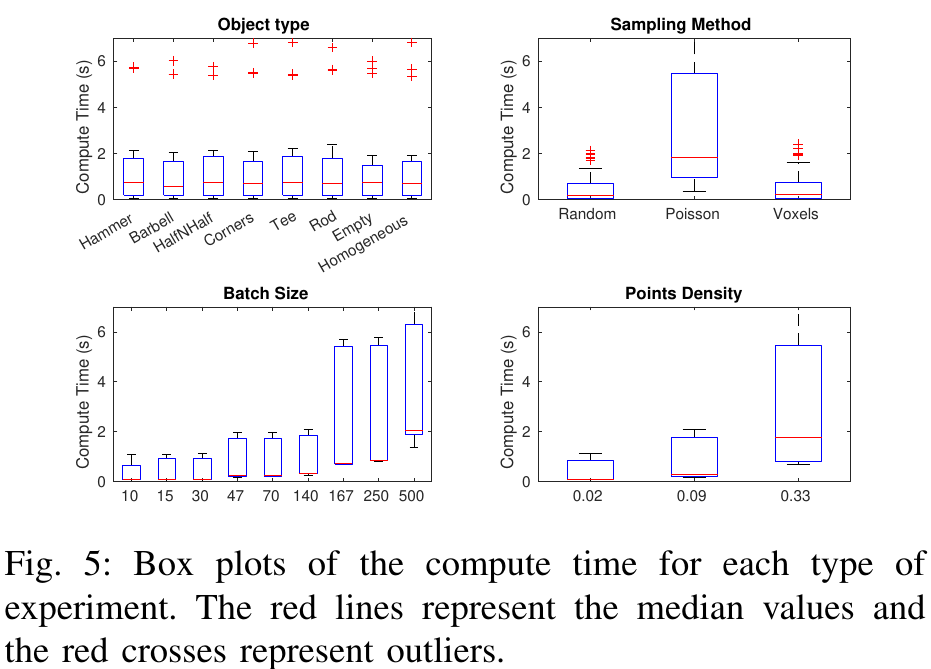
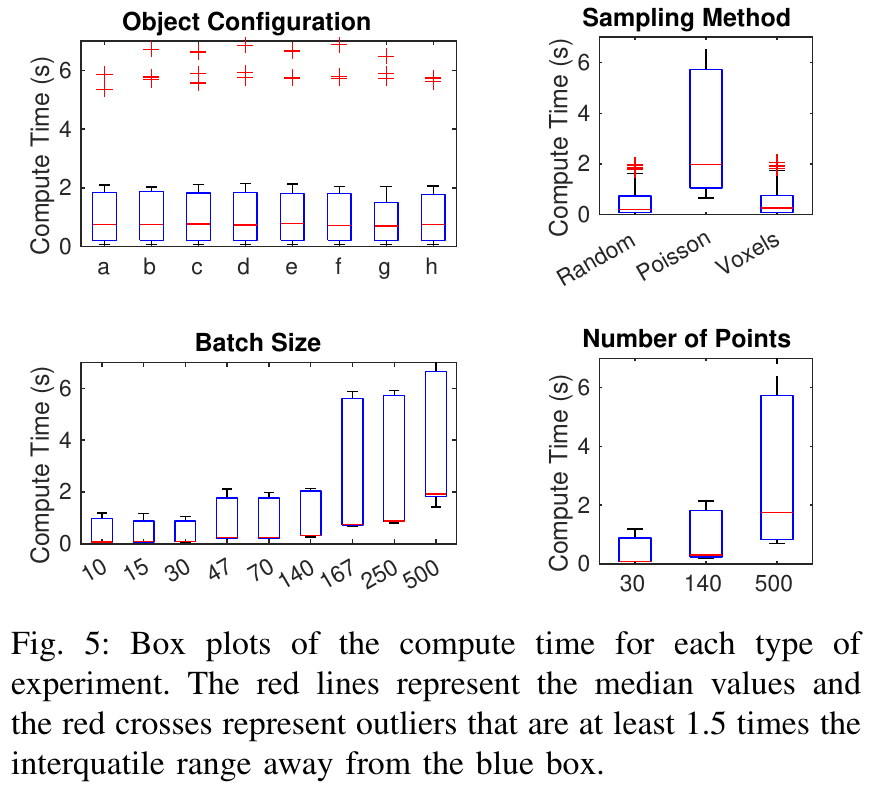
Updated figures and added video

diff --git a/_pages/fast-inertial-identification.md b/_pages/fast-inertial-identification.md
@@ -1,24 +1,24 @@
 ---
 layout: page
-title: Fast Inertial Parameter Identification of Manipulated Objects for Collaborative Robots (ICRA 2022)
+title: Fast Object Inertial Parameter Identification for Collaborative Robots
 subtitle:  Providing a Dynamic Touch to Cobots
-description: ICRA (2022) paper on inertial parameter identification for robots working at the pace of human workers
+description: Paper on inertial parameter identification for robots working at the pace of human workers
 permalink: /fast-inertial-identification/
 nav_exclude: true
 nav_order: 9995
-youtubeId: 
+youtubeId: xCb1l5aNe6Y
 ---
 
-# Fast Inertial Parameter Identification of Manipulated Objects for Collaborative Robots 
+# Fast Object Inertial Parameter Identification for Collaborative Robots
 
 [<i class="fa fa-file-text-o" aria-hidden="true"></i> arXiv pre-print ](https://arxiv.org/abs/){: .btn .btn-blue }
 
 ### Abstract
-Collaborative robots (cobots) aims to safely work alongside human workers to alleviate the burden of tedious tasks. Providing cobots with the capability to infer the *inertial parameters* of manipulated objects can be a stepping stone towards their wide adoption in production facilities. To ensure safety, cobots implement kinematic limits that makes existing algorithms prohibitively slow and inaccurate on noisy signals. We formulate an optimization problem that can generate a good solution faster than other methods by relying on two educated approximations and by leveraging knowledge of the pose and shape of the manipulated object. The proposed algorithm is supported by a number of simulation and real-world experiments that show how it complements existing algorithms by specifically targeting cobots operation regime.
+Collaborative robots (cobots) aim to alleviate the burden of tedious tasks by safely working alongside humans. Providing cobots with the ability to infer the inertial parameters of manipulated objects is a key stepping stone towards their wide adoption in production facilities. To ensure safety, cobots implement kinematic limits that render state-of-the-art identification algorithms prohibitively slow and inaccurate with noisy sensors. Motivated by the literature on safe cobot operation, we introduce Point Mass Discretization (PMD), a formulation of inertial parameter identification that exploits the unique characteristics of cobot motion to outperform existing methods. Our method achieves this by leveraging knowledge of the pose and shape of the manipulated object, which is provided by a cobot's perception system. Extensive simulations and real-world experiments demonstrate that our proposed algorithm complements existing inertial parameter identification methods by specifically targeting a cobots' typical operating regime.
 
-### Fast Inertial Parameter Identification of Manipulated Objects for Collaborative Robots 
+### Fast Object Inertial Parameter Identification for Collaborative Robots
 #### Philippe Nadeau, Matthew Giamou and Jonathan Kelly 
-##### International Conference on Robotics and Automation (ICRA) 2022 
+##### Submitted to IEEE Robotics and Automation Letters (2021)
 
 ## Video
 {% include youtubePlayer.html id=page.youtubeId %}
@@ -71,7 +71,7 @@ Collaborative robots (cobots) aims to safely work alongside human workers to all
 
 ## Code
 {::nomarkdown} 
-<a target="_blank" rel="external" href="https://github.com/PhilNad/inertial-parameters-estimation"><i class="fa fa-github-square" aria-hidden="true"></i> Available on Github</a>
+<a target="_blank" rel="external" href="https://github.com/PhilNad/object-inertial-param-id"><i class="fa fa-github-square" aria-hidden="true"></i> Available on Github</a>
 {:/}
 
 Set of algorithms used to estimate the mass, center of mass and inertia tensor of objects being manipulated by robot arms.
@@ -96,12 +96,13 @@ This repository contains code used to generate URDF models of a variety of test 
 <pre wrap='true'>
 @inproceedings{nadeau_fastInertialIdent_2022, 
     AUTHOR    = {Philippe Nadeau AND Matthew Giamou AND Jonathan Kelly}, 
-    TITLE     = { {Fast Inertial Parameter Identification of Manipulated Objects for Collaborative Robots} }, 
-    BOOKTITLE = {Proceedings of the {IEEE} International Conference on Robotics and Automation {(ICRA'22})}, 
+    TITLE     = { {Fast Object Inertial Parameter Identification for Collaborative Robots} }, 
+<!--    BOOKTITLE = {Proceedings of the {IEEE} International Conference on Robotics and Automation {(ICRA'22})}, 
     YEAR      = {2022}, 
     ADDRESS   = {Philadelphia, PA, USA}, 
     MONTH     = {May}, 
-    DOI       = {} 
+    DOI       = {}
+-->
 }
 </pre>
 
